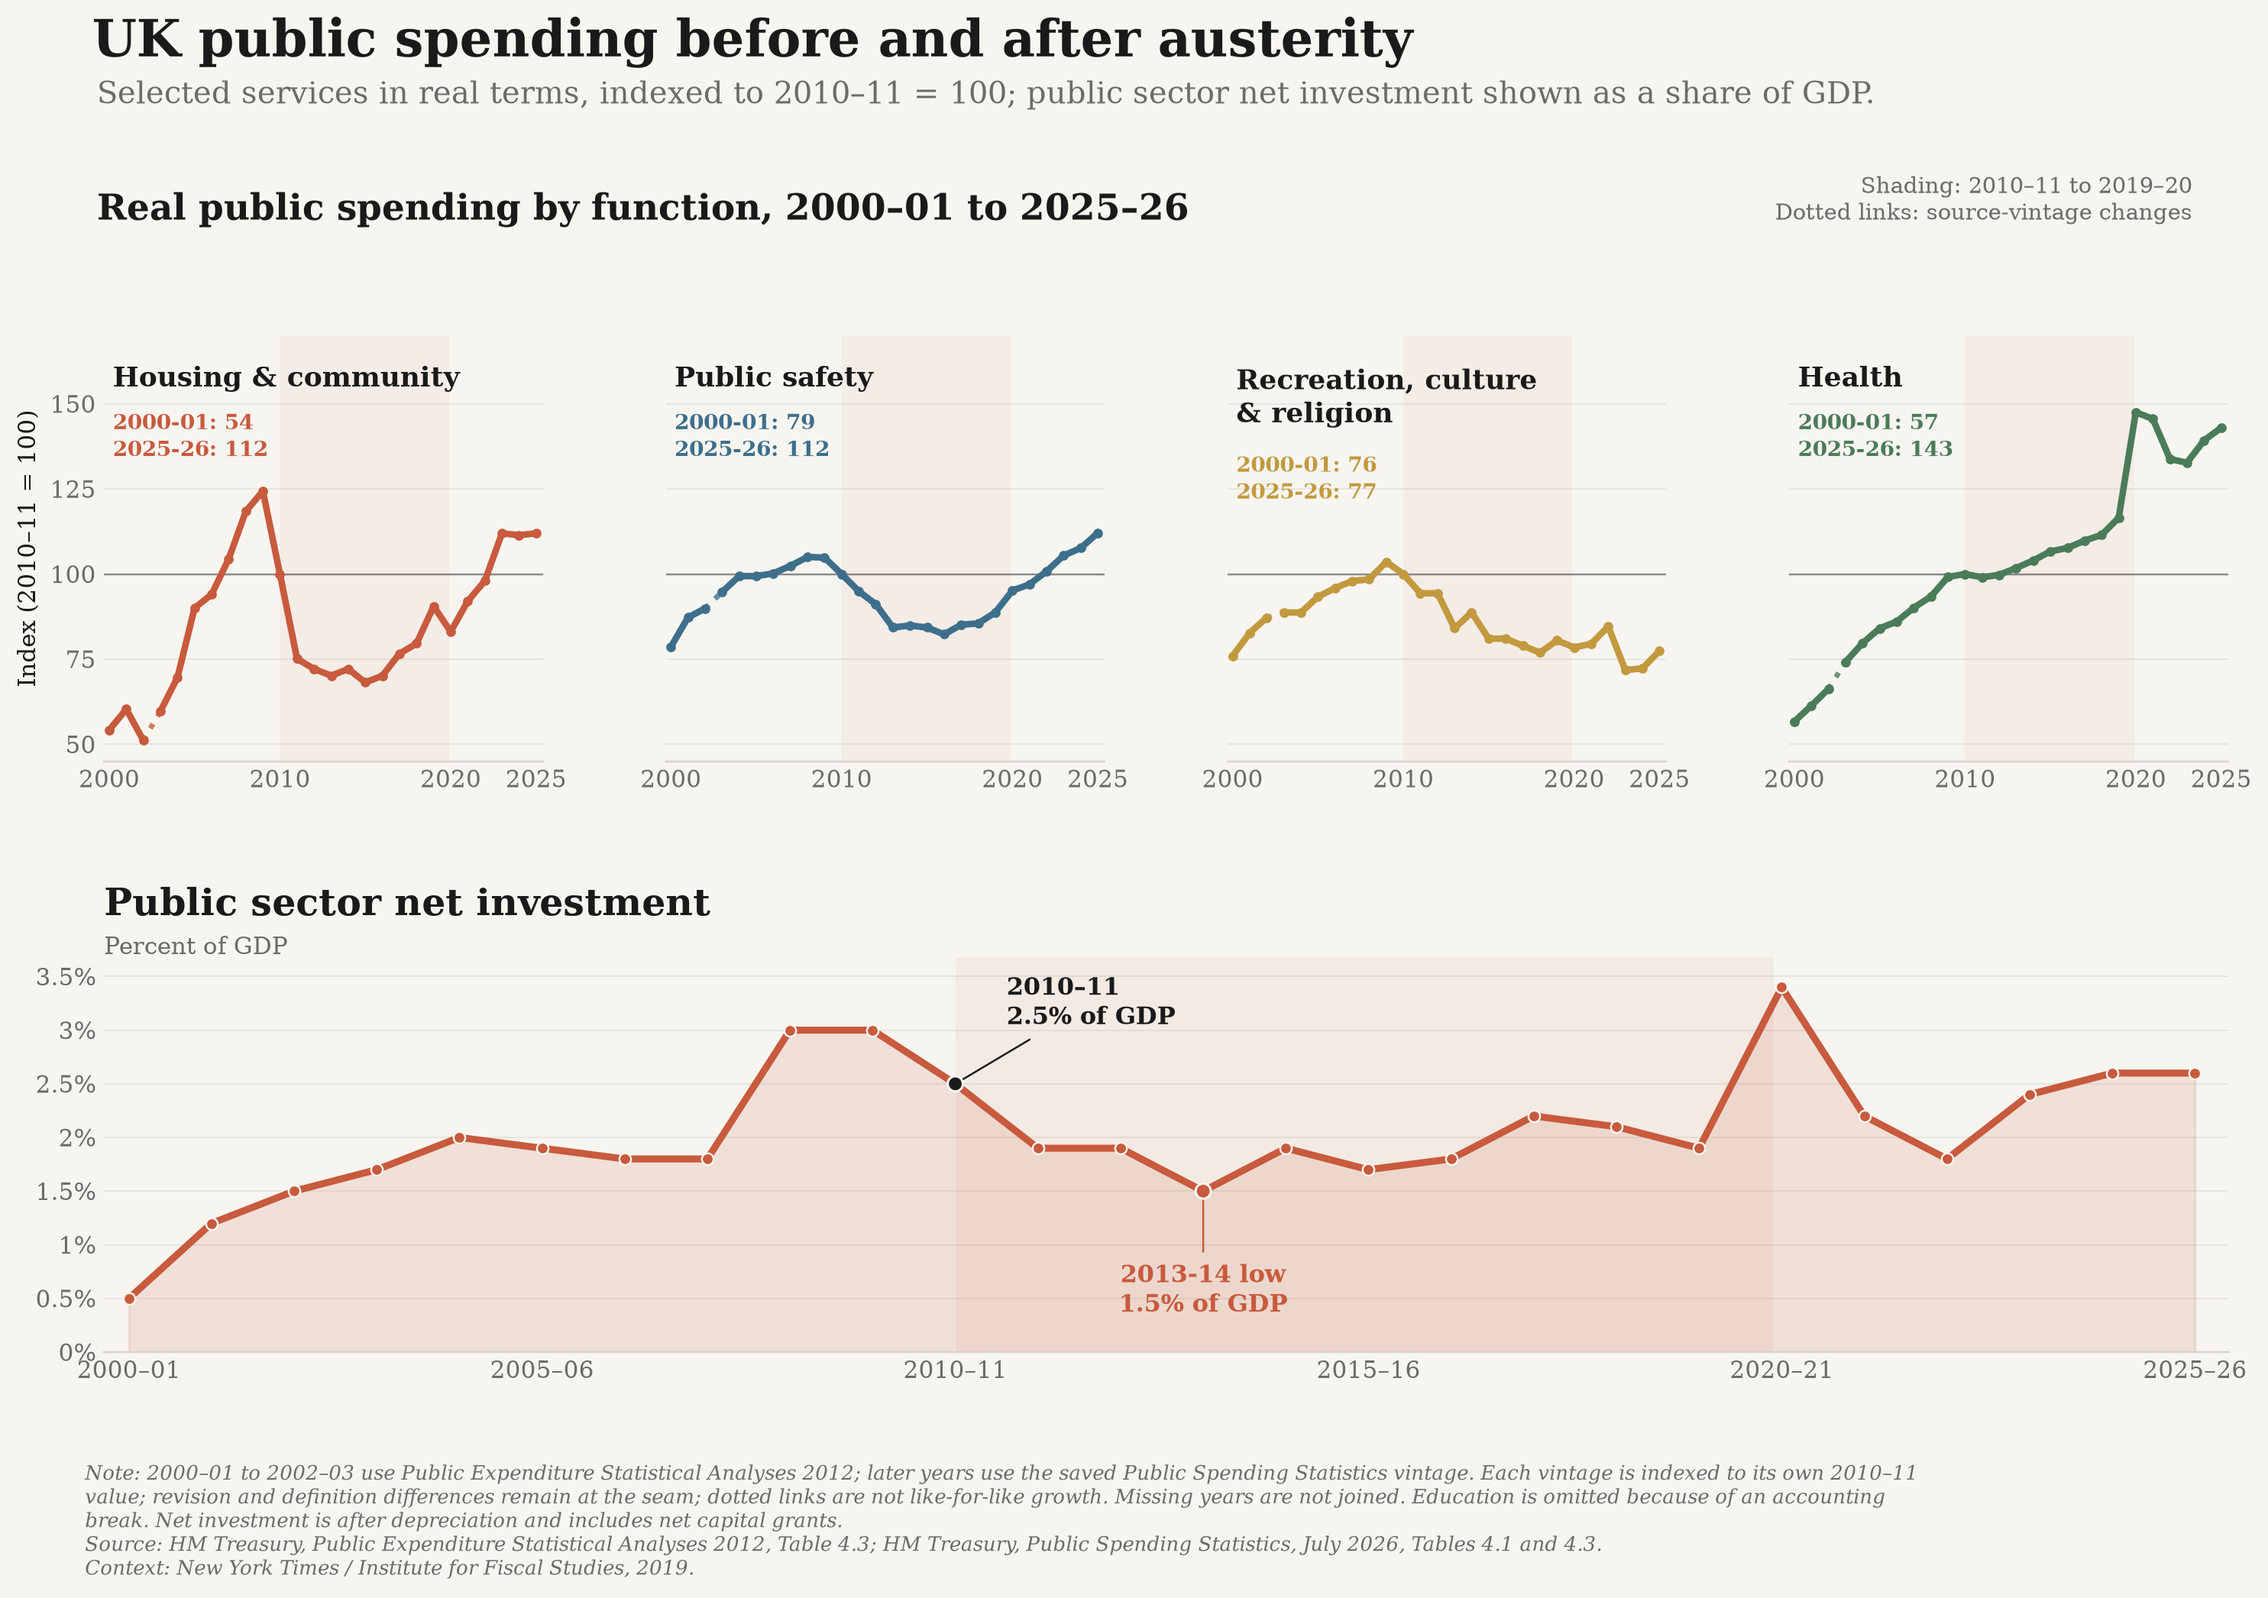
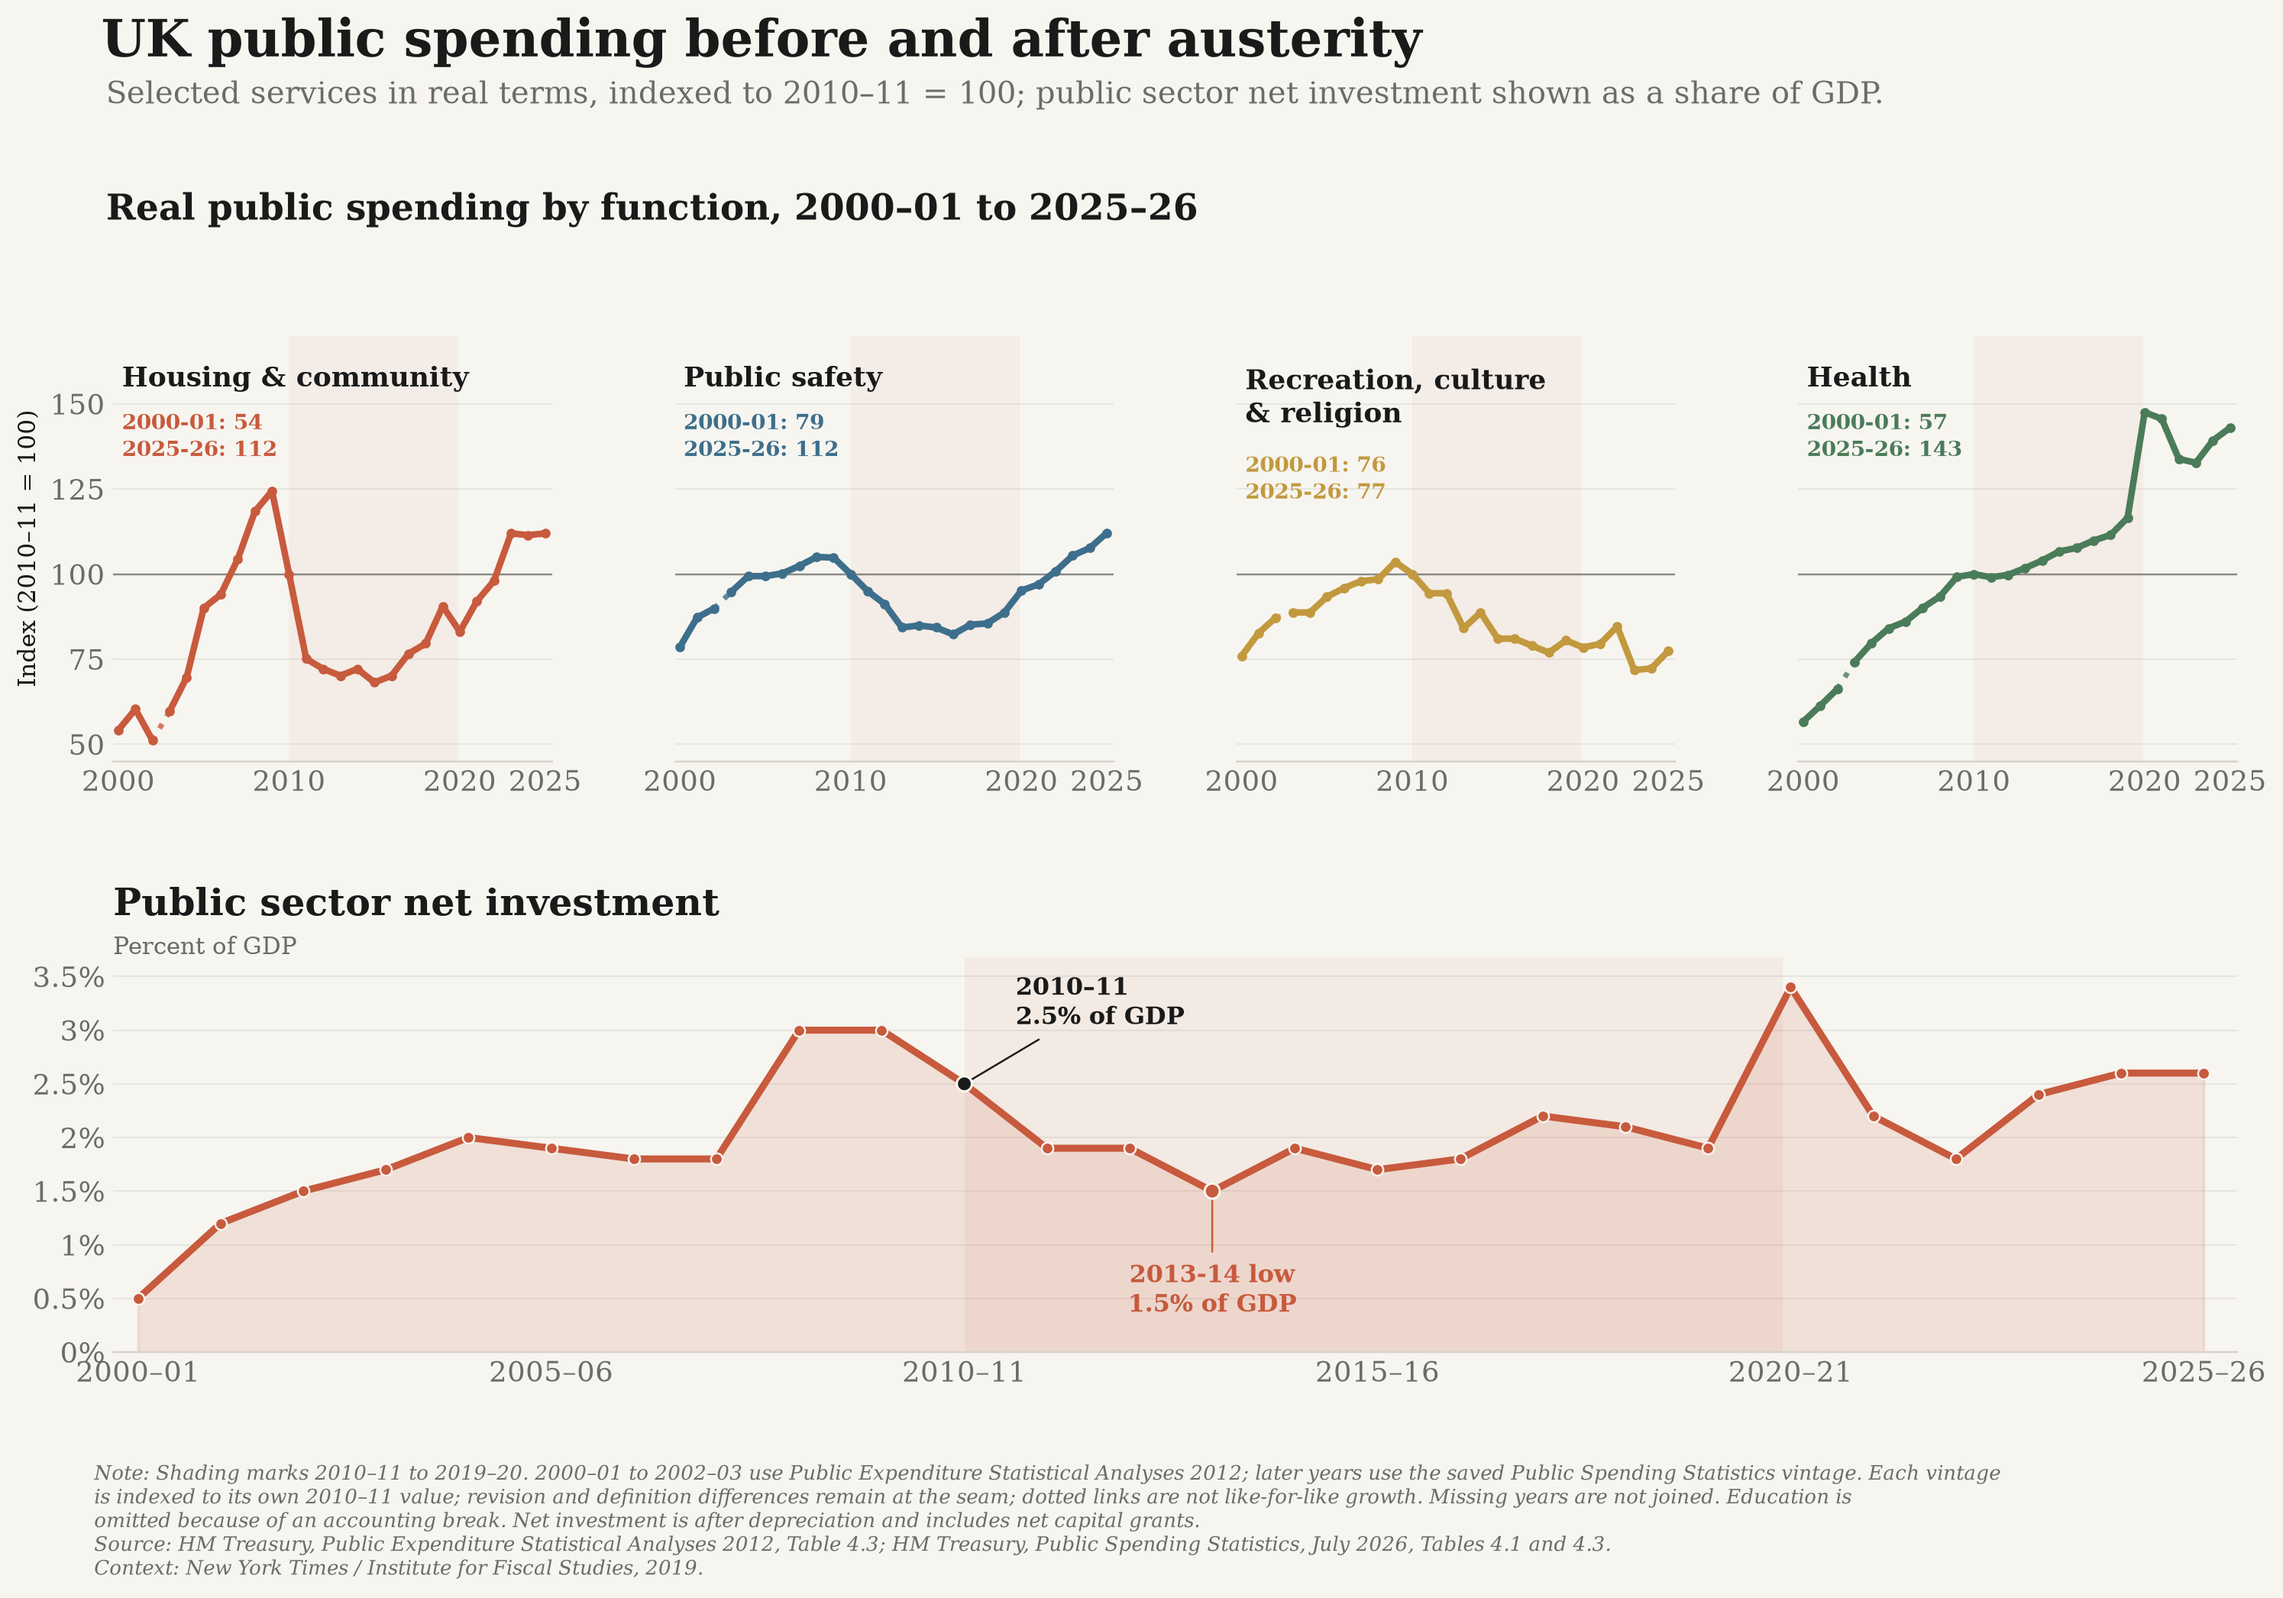
Move public spending chart keys into the footnote

diff --git a/austerity_data/charts.py b/austerity_data/charts.py
@@ -237,15 +237,6 @@ def make_chart(source, output: Path | str = DEFAULT_OUTPUT) -> Path:
         fontweight="bold",
         color=TEXT,
     )
-    fig.text(
-        0.94,
-        0.862,
-        "Shading: 2010–11 to 2019–20\nDotted links: source-vintage changes",
-        ha="right",
-        fontsize=9.5,
-        color=MUTED,
-    )
-
     # Public sector net investment, with the austerity period shaded.
     investment = df[
         (df["metric"] == "public_sector_net_investment_pct_gdp")
@@ -331,7 +322,8 @@ def make_chart(source, output: Path | str = DEFAULT_OUTPUT) -> Path:
         0.057,
         0.018,
         textwrap.fill(
-            "Note: 2000–01 to 2002–03 use Public Expenditure Statistical Analyses 2012; "
+            "Note: Shading marks 2010–11 to 2019–20. "
+            "2000–01 to 2002–03 use Public Expenditure Statistical Analyses 2012; "
             "later years use the saved Public Spending Statistics vintage. Each "
             "vintage is indexed to its own 2010–11 value; revision and definition "
             "differences remain at the seam; dotted links are not like-for-like growth. "

diff --git a/tests/test_austerity.py b/tests/test_austerity.py
@@ -164,7 +164,16 @@ def test_source_vintage_seam_is_dotted_without_inventing_missing_years(monkeypat
                     for segment in c.get_segments()]
         assert len(segments) == 1
         assert list(segments[0][:, 0]) == [2002, 2003]
-    assert "Dotted links: source-vintage changes" in " ".join(t.get_text() for t in captured[0].texts)
+    notes = [text for text in captured[0].texts if text.get_text().startswith("Note:")]
+    assert len(notes) == 1
+    note = " ".join(notes[0].get_text().split())
+    assert "Shading marks 2010–11 to 2019–20." in note
+    assert "dotted links are not like-for-like growth" in note
+    assert notes[0].get_position()[1] < 0.1
+    assert not any(
+        text.get_text().startswith(("Shading:", "Dotted links:"))
+        for text in captured[0].texts
+    )
 
 
 def test_new_spending_year_and_high_value_are_not_silently_dropped(monkeypatch, tmp_path):
